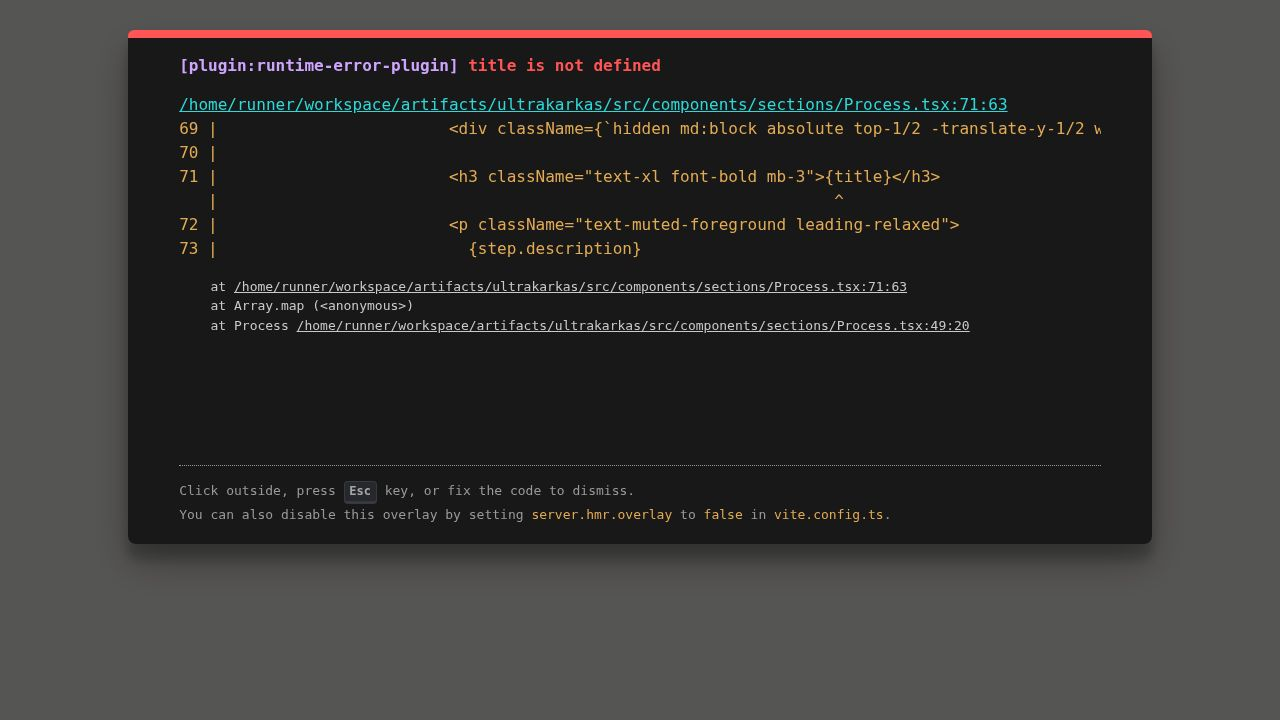
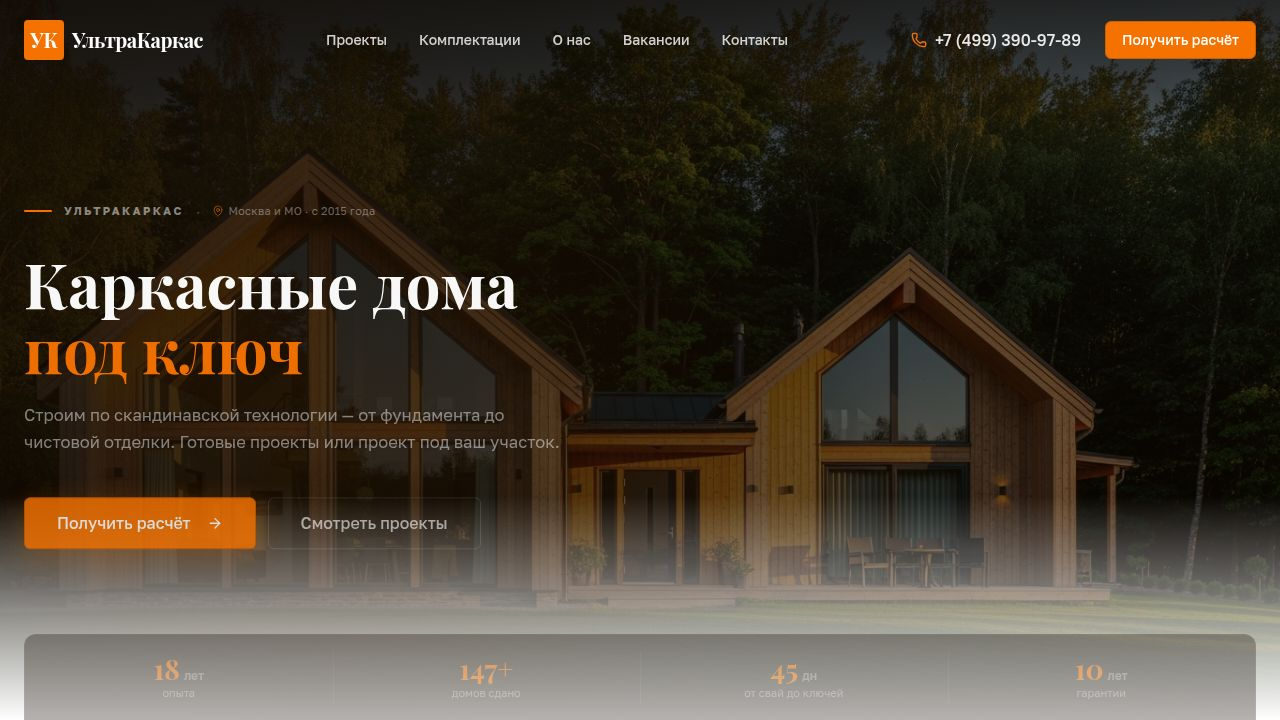
Fix visual issues with house construction diagrams and configuration switching
Update SVG elements in `tilda/index/html.html` and `artifacts/ultrakarkas/public/site/index.html` to scope unique IDs for patterns and gradients, resolving rendering and switching bugs in the wall and roof diagrams.

Replit-Commit-Author: Agent
Replit-Commit-Session-Id: e617a6b1-22f9-4b52-b183-eec8ec107815
Replit-Commit-Checkpoint-Type: full_checkpoint
Replit-Commit-Event-Id: 43ae3660-5760-4a40-b4df-2bb20086b2be
Replit-Commit-Screenshot-Url: https://storage.googleapis.com/screenshot-production-us-central1/be5281c3-adfa-4909-9836-b7c9a2915bda/e617a6b1-22f9-4b52-b183-eec8ec107815/wegWD5D
Replit-Helium-Checkpoint-Created: true

diff --git a/.agents/memory/ultrakarkas-tilda-export.md b/.agents/memory/ultrakarkas-tilda-export.md
@@ -28,3 +28,17 @@ complete standalone static site at `artifacts/ultrakarkas/public/site/`, served 
 - `rewriteLinks()` maps SPA links to static `.html` (incl. `/project/<slug>` →
   `project-<slug>.html`). Contacts page reuses the index navbar (forced `uk-inner`)
   + footer + modal.
+
+## SVG defs IDs must be scoped per pre-rendered variant
+The wall/roof "пирог" sections (`.uk-lyr` in `tilda/index/html.html`) pre-render 3
+config SVGs (econom/optimum/max) stacked, toggled by `display` via inline
+`ukLyrTab`. Every `<pattern>/<linearGradient>/<filter>` id and its `url(#id)` must
+be UNIQUE per SVG block (suffix e.g. `-c1..-c6`).
+**Why:** duplicate ids across the stacked SVGs make `url(#insulation-pat)` resolve
+to the FIRST match in the DOM, which lives inside a `display:none` SVG; Chrome will
+not paint a pattern/gradient from a `display:none` subtree, so the visible diagram
+renders empty white boxes (solid `fill` colors still work — that's the tell). This
+was the "плохо сделаны пироги / переключение не работает" bug.
+**How to apply:** after regenerating these pre-rendered SVGs, re-run the per-block
+id-scoping pass (suffix all `id="X"` and `url(#X)` within each `.uk-lyr-svg-inner`
+svg), then `node tilda/build-site.js`.